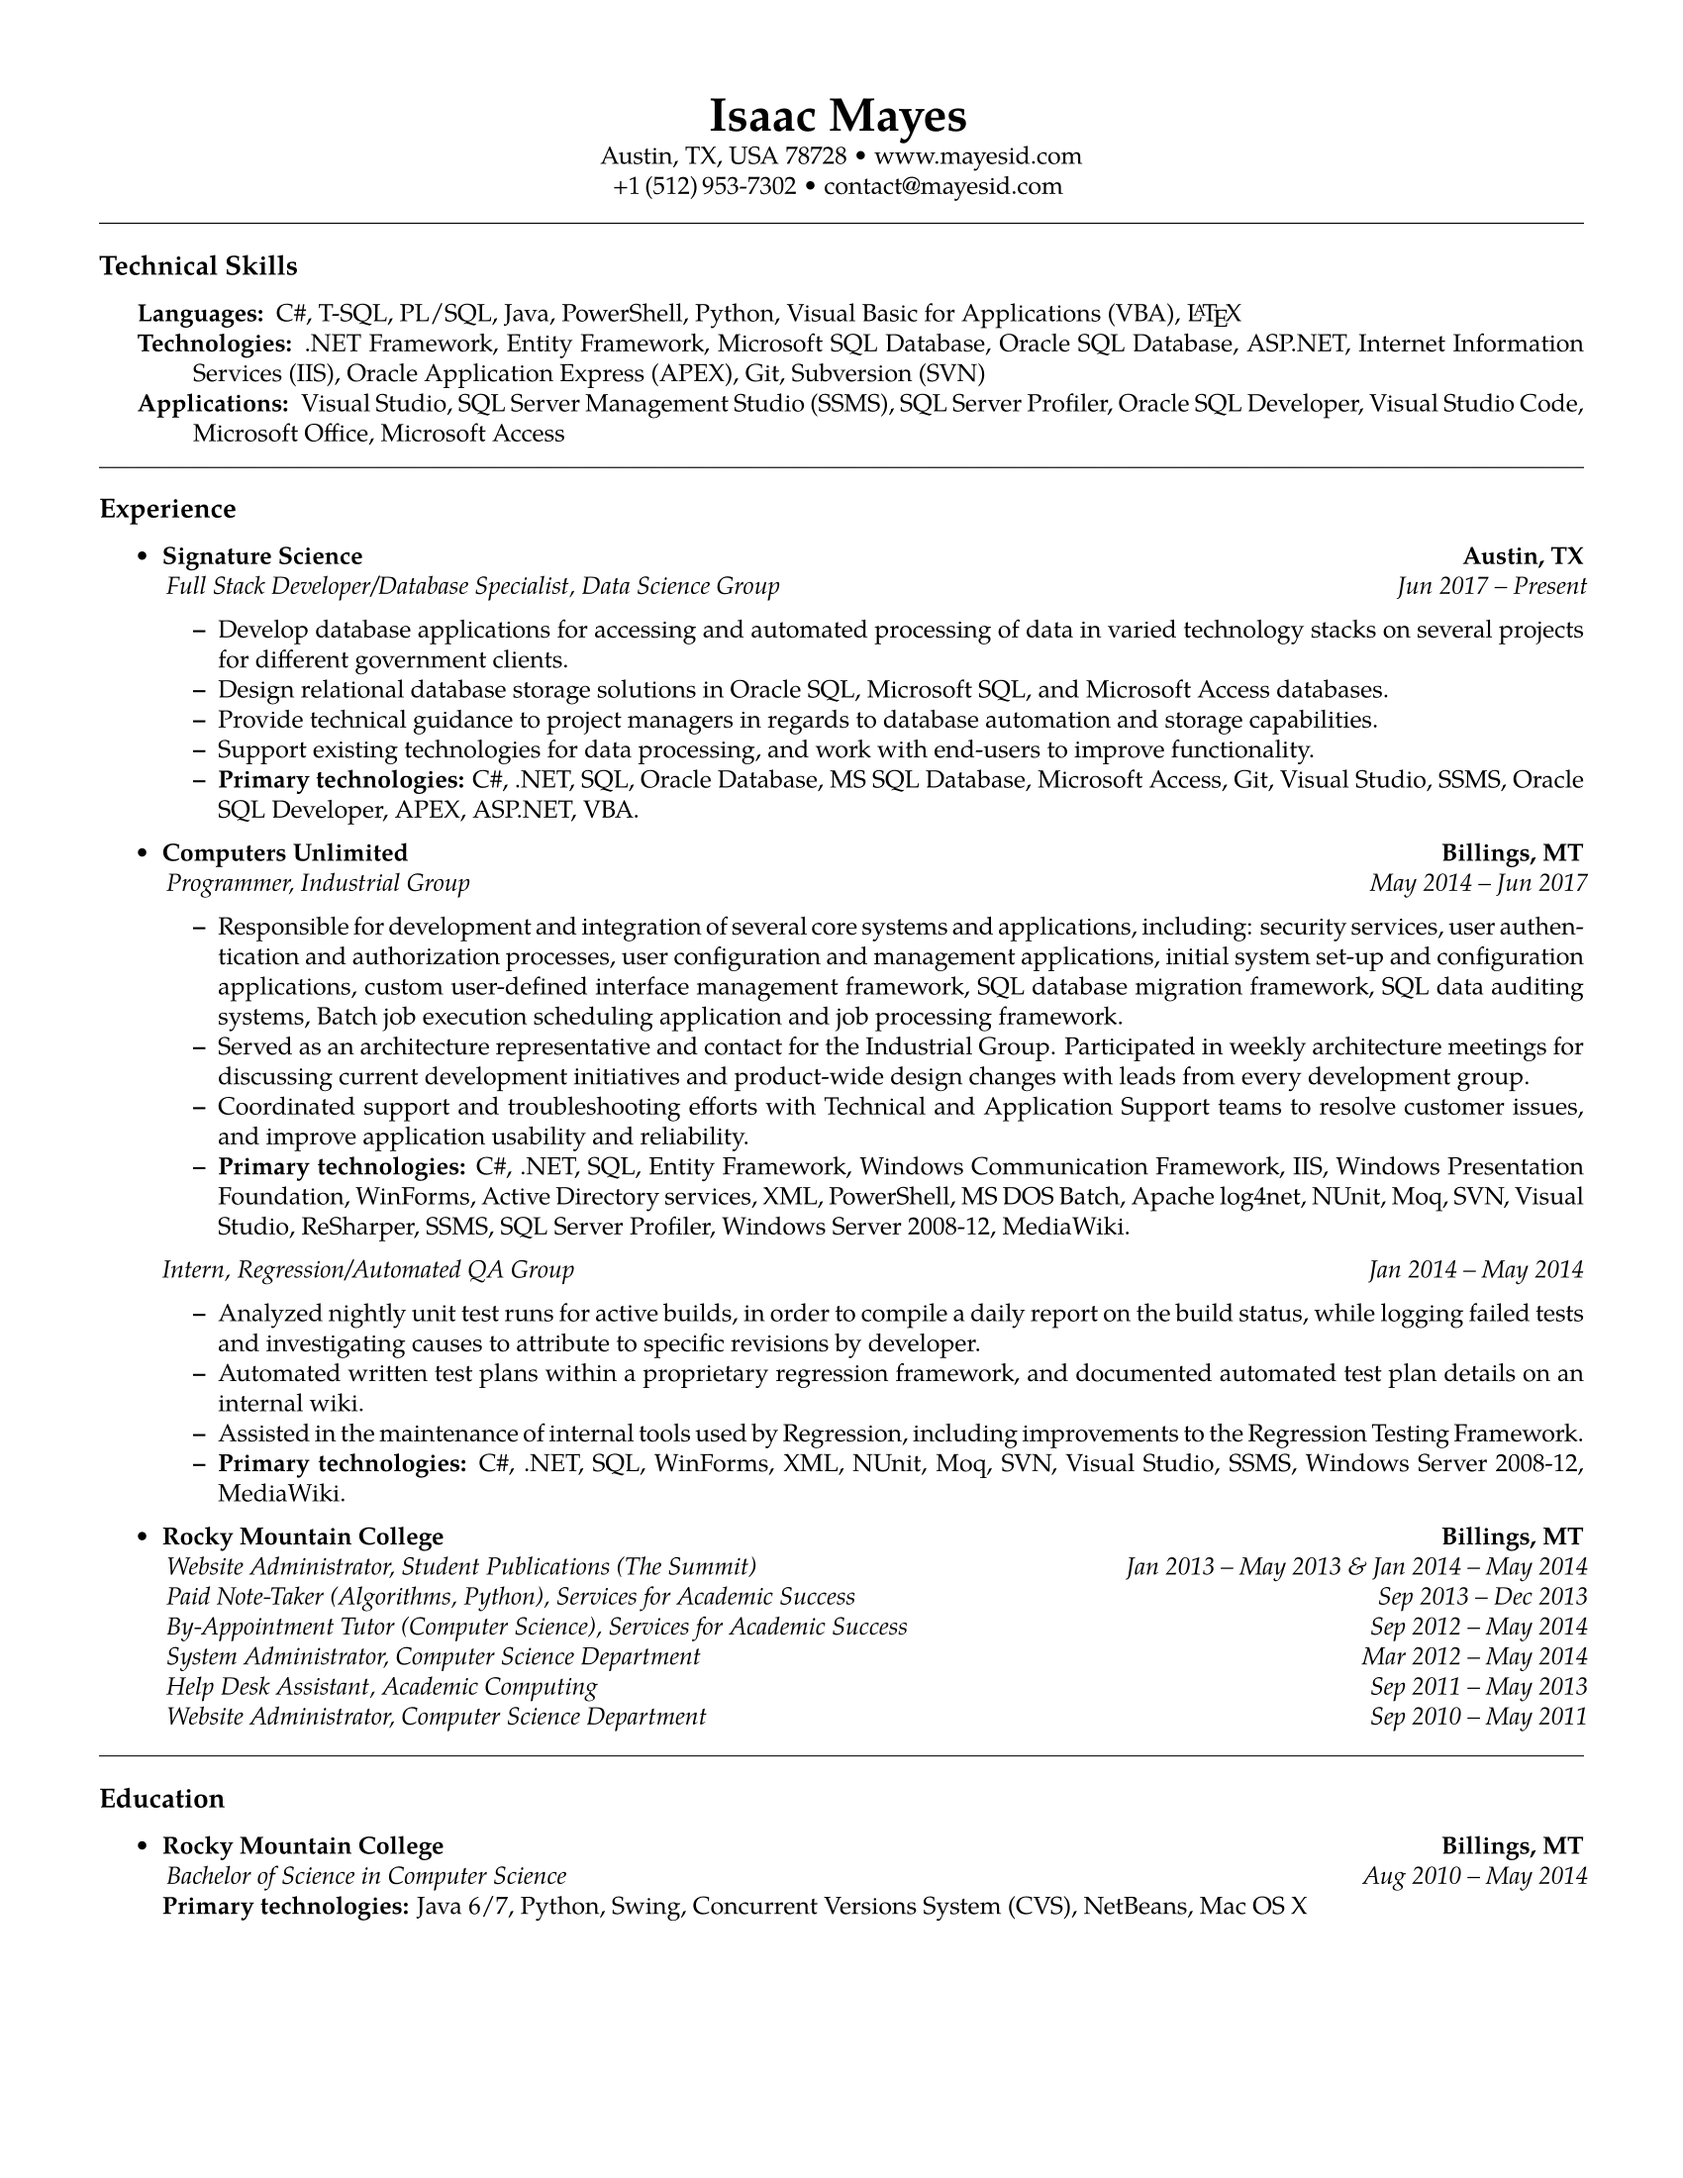
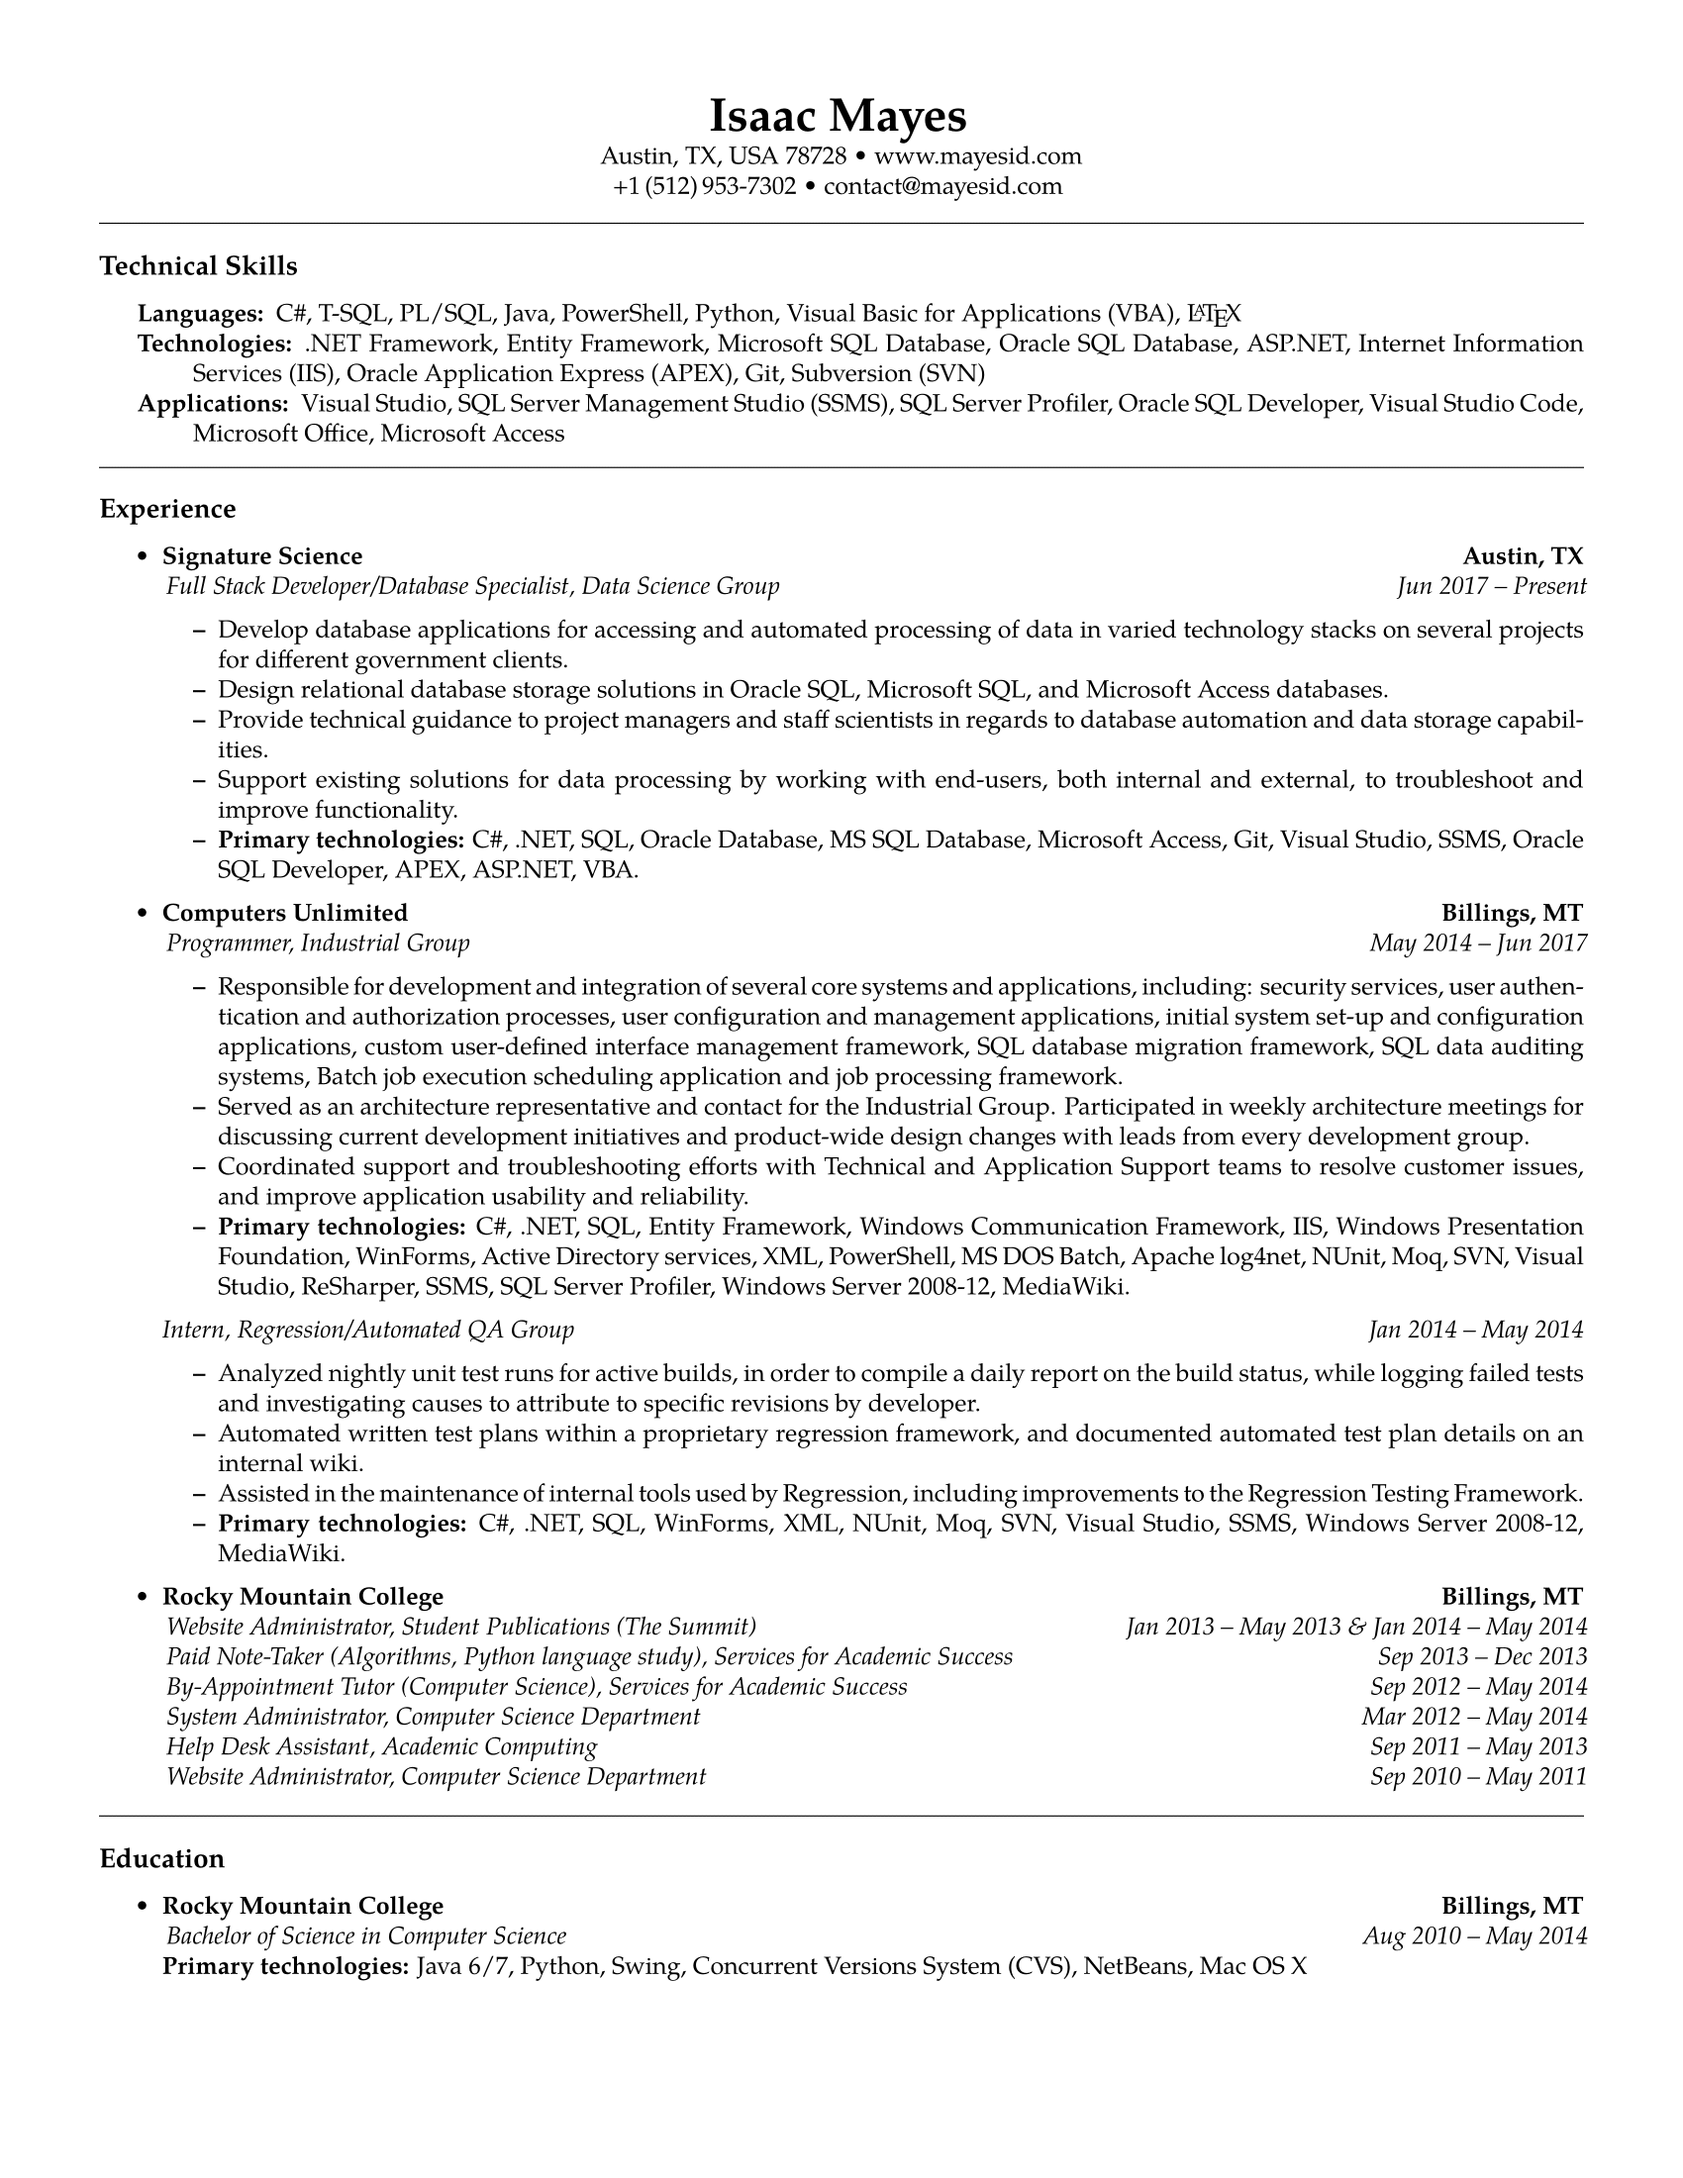
Improve wording
* Regenerated PDF and PNG files for changes.

Changed region(s): [[0.0624, 0.3091, 0.9353, 0.9273], [0.6547, 0.8655, 0.6859, 0.9273], [0.3741, 0.8655, 0.4053, 0.8964]]

diff --git a/Resume_IsaacMayes.tex b/Resume_IsaacMayes.tex
@@ -135,8 +135,8 @@ breaklinks}
 	\begin{itemize*}
 		\item Develop database applications for accessing and automated processing of data in varied technology stacks on several projects for different government clients.
 		\item Design relational database storage solutions in Oracle SQL, Microsoft SQL, and Microsoft Access databases.
-		\item Provide technical guidance to project managers in regards to database automation and storage capabilities.
-		\item Support existing technologies for data processing, and work with end-users to improve functionality.
+		\item Provide technical guidance to project managers and staff scientists in regards to database automation and data storage capabilities.
+		\item Support existing solutions for data processing by working with end-users, both internal and external, to troubleshoot and improve functionality.
 		\item \textbf{Primary technologies:} C\#, .NET, SQL, Oracle Database, MS SQL Database, Microsoft Access, Git, Visual Studio, SSMS, Oracle SQL Developer, APEX, ASP.NET, VBA.
 	\end{itemize*}
 
@@ -182,7 +182,7 @@ breaklinks}
 %	\end{itemize*}
 	\pdfbookmark[3]{Paid Note-Taker}{PDF:PaidNoteTaker}
 	\headerrow
-		{\emph{Paid Note-Taker (Algorithms, Python), \href{https://www.rocky.edu/academics/academic-support/services-academic-success}{Services for Academic Success}}}
+		{\emph{Paid Note-Taker (Algorithms, Python language study), \href{https://www.rocky.edu/academics/academic-support/services-academic-success}{Services for Academic Success}}}
 		{\emph{\DatestampYM{2013}{09} -- \DatestampYM{2013}{12}}}
 %	\begin{itemize*}
 %		\item Required to take complete, detailed, well-written notes for use by students requiring additional academic assistance.
